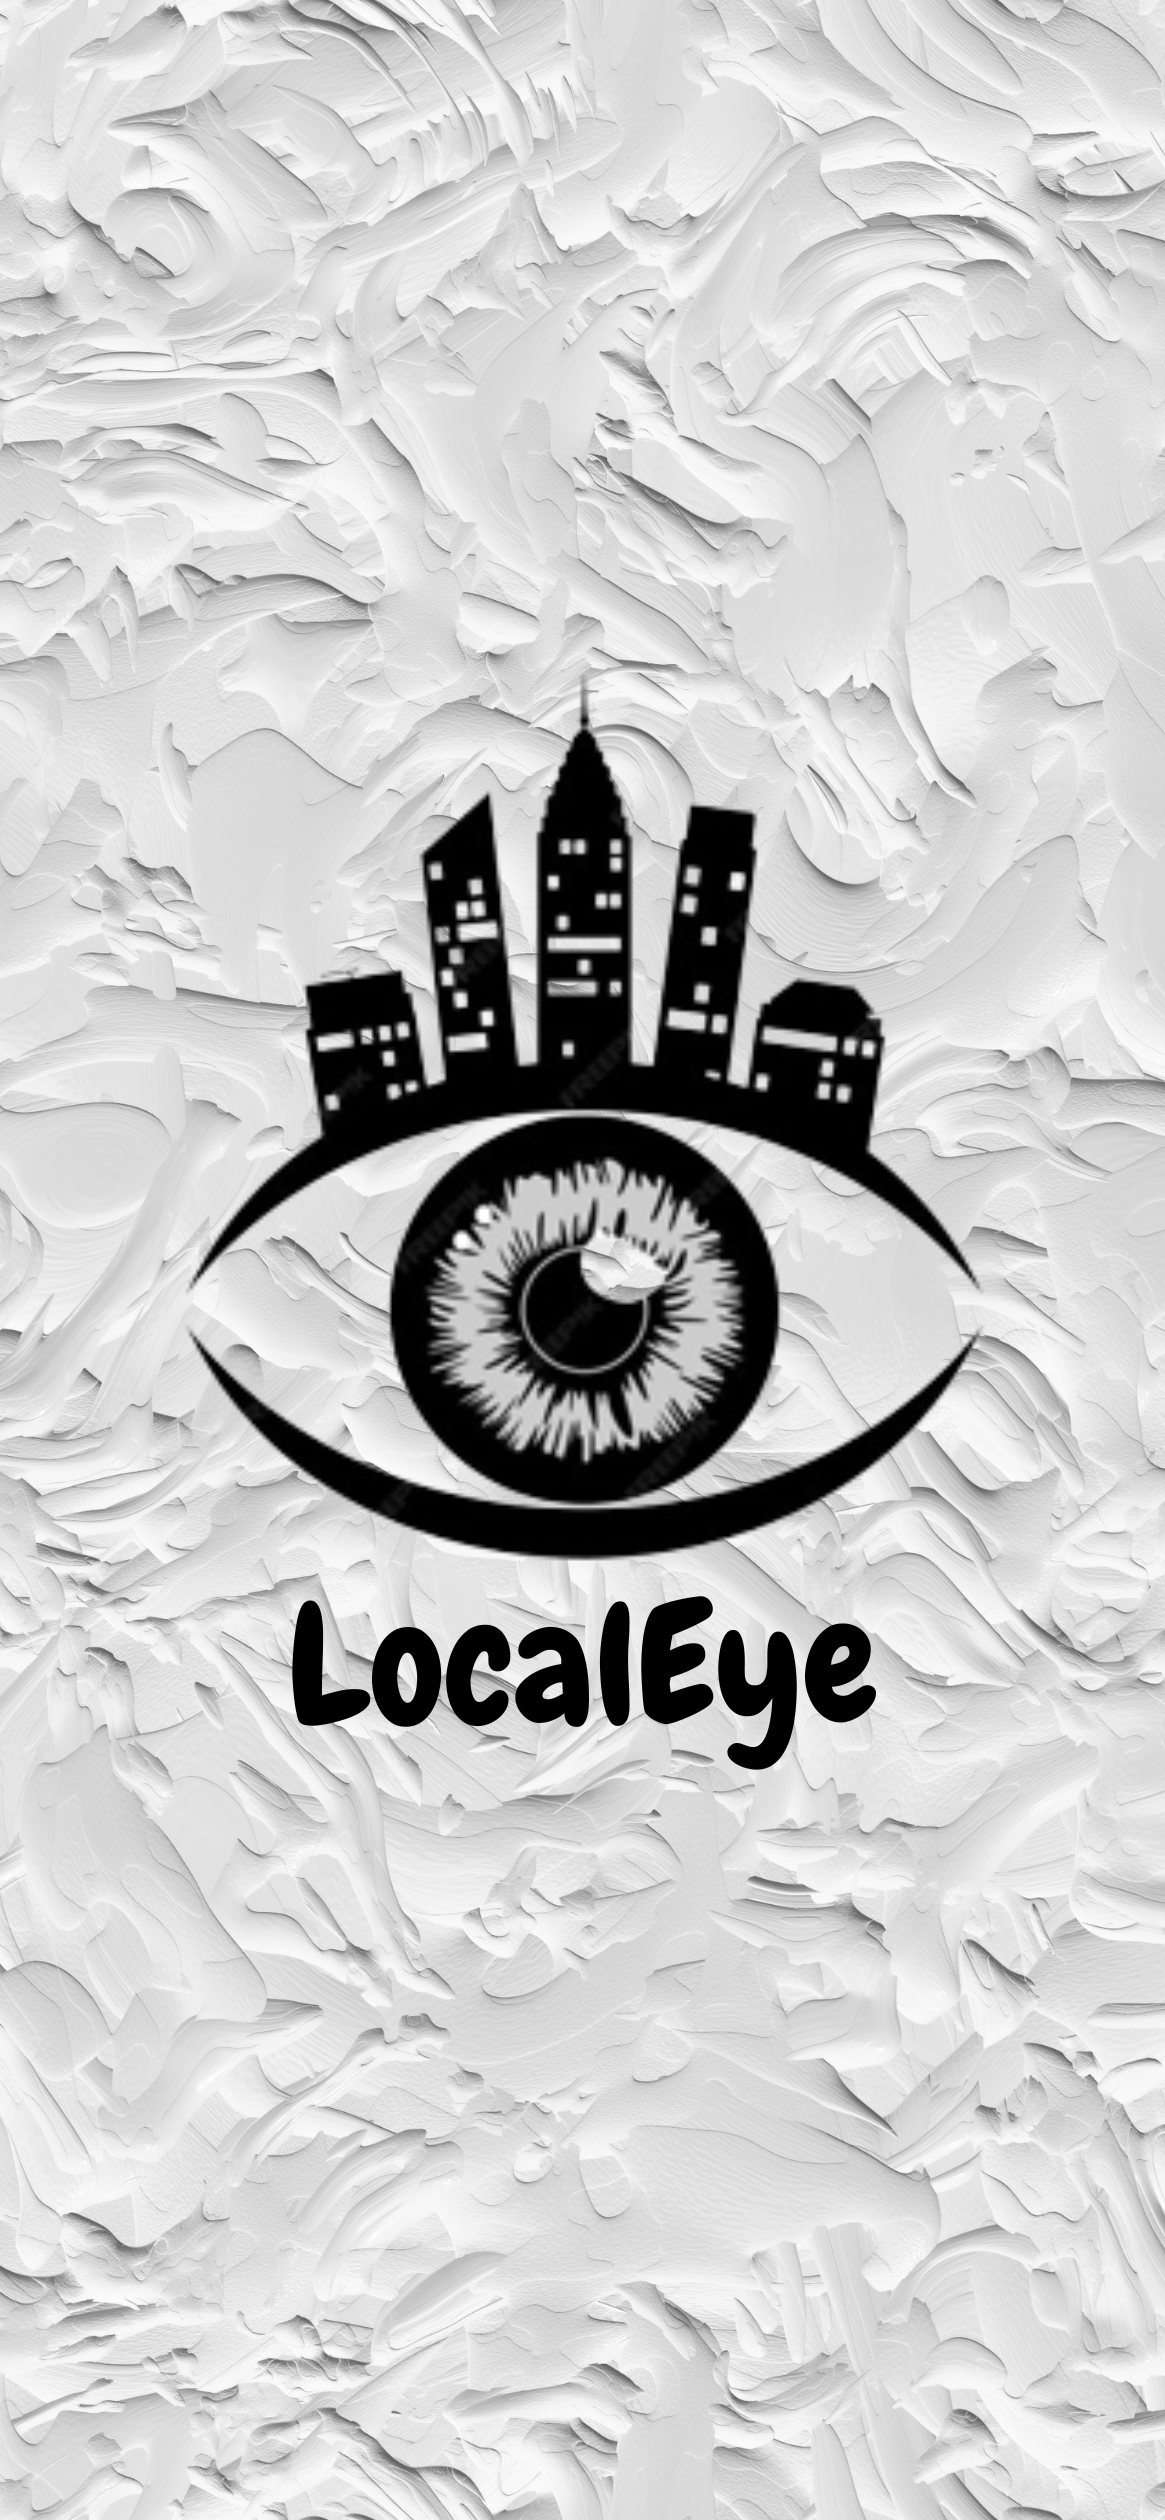
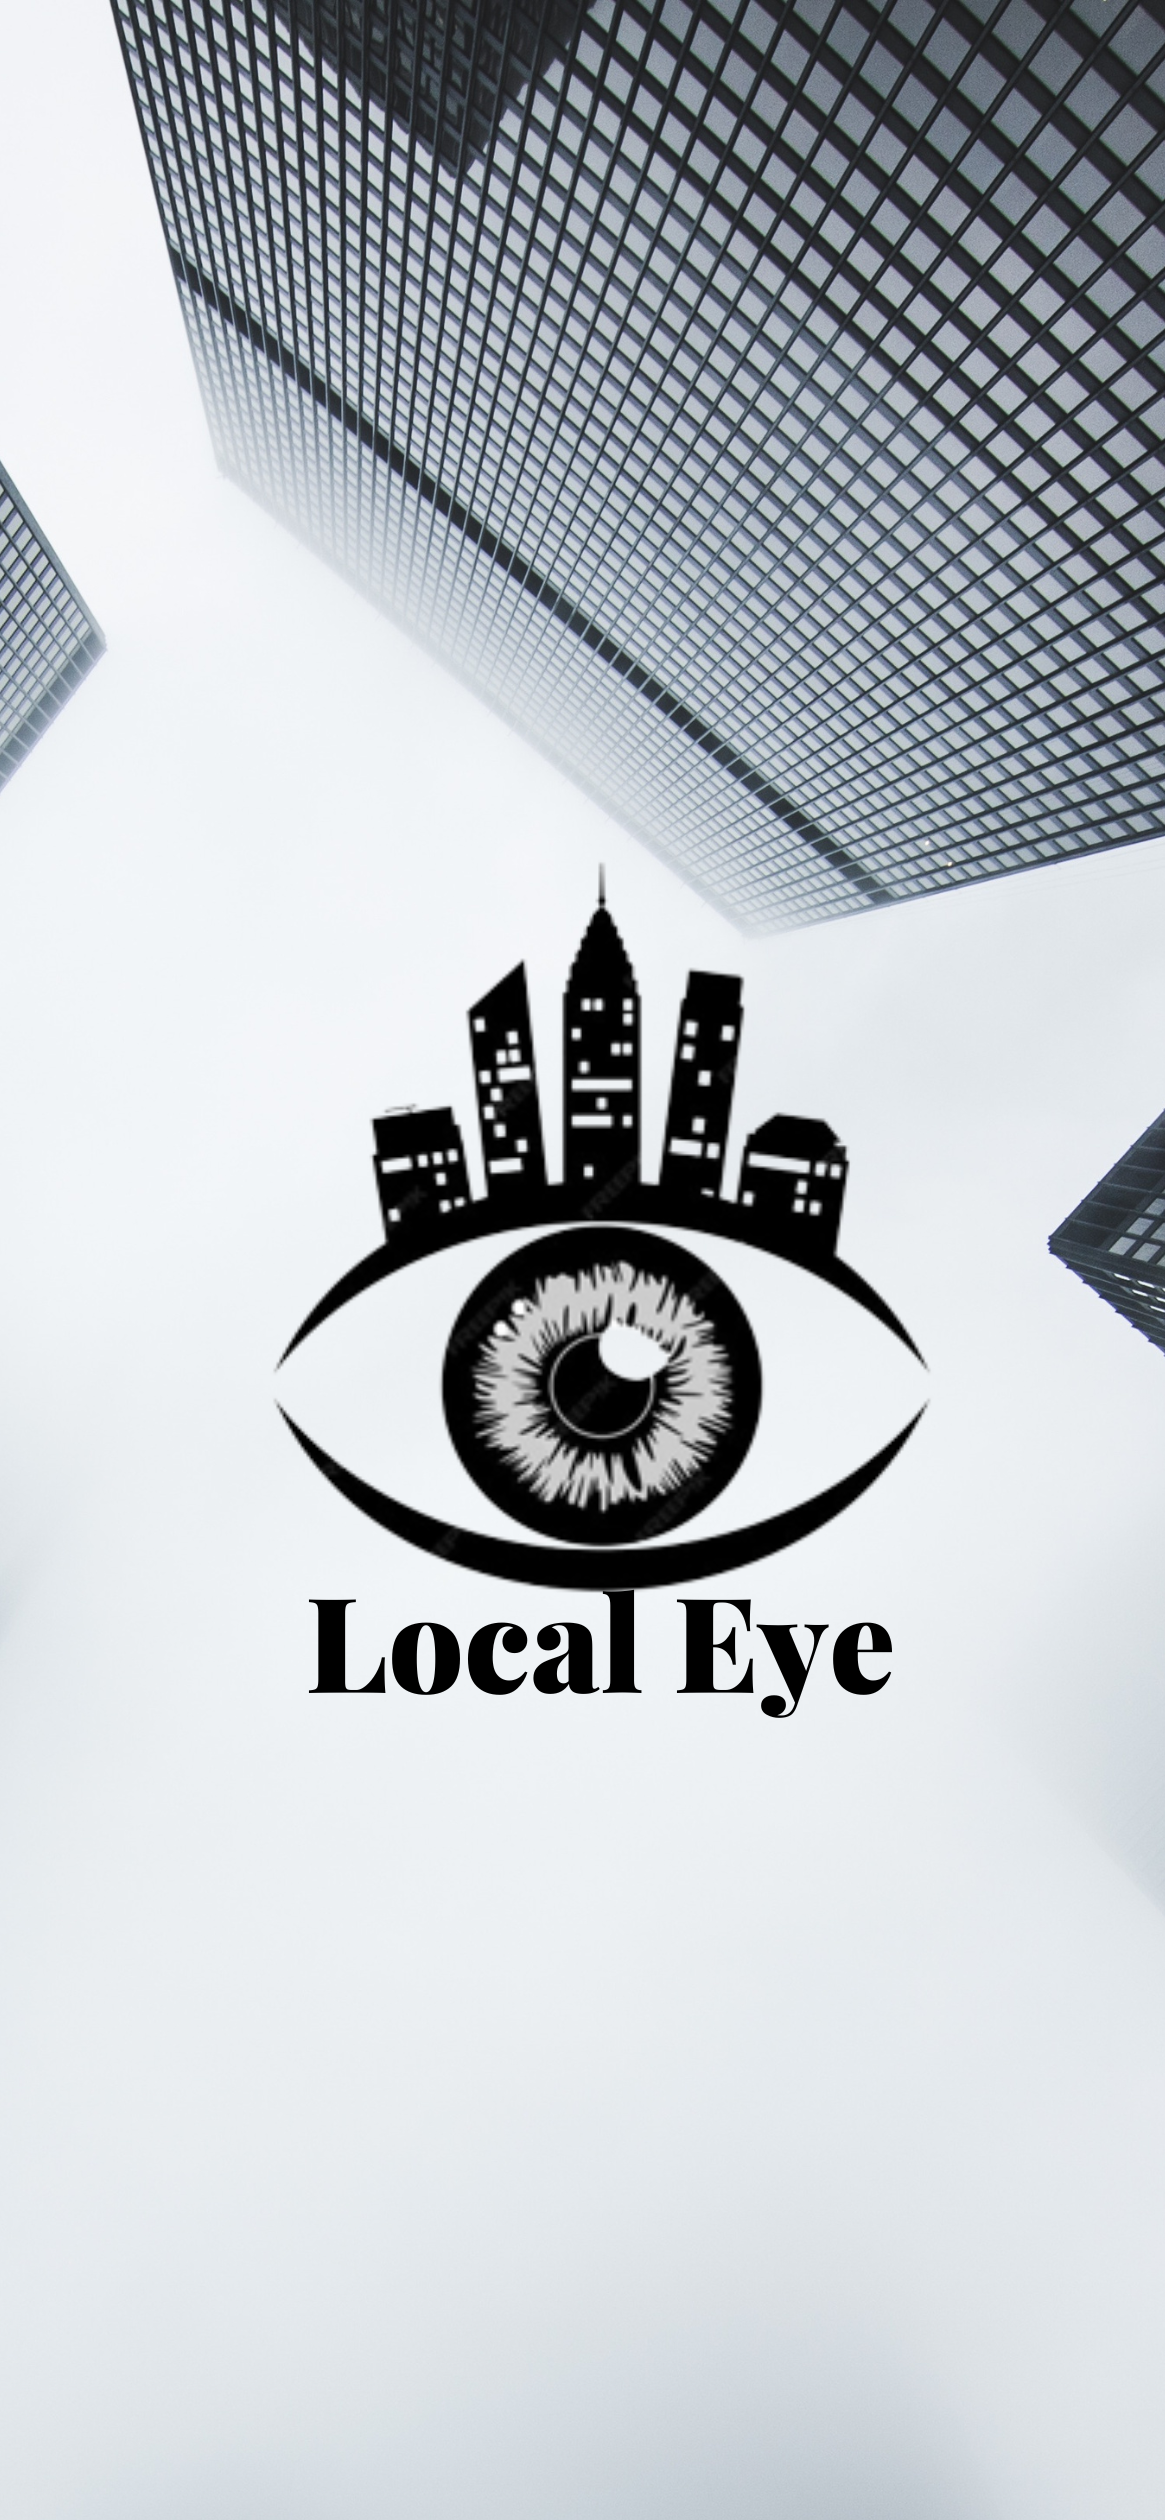
new background

diff --git a/lib/screens/category_screen.dart b/lib/screens/category_screen.dart
@@ -1,120 +1,4 @@
-// import 'package:flutter/material.dart';
-// import 'package:font_awesome_flutter/font_awesome_flutter.dart';
-// import 'welcome_screen.dart'; // Import your welcome screen file
 
-// class CategoryScreen extends StatelessWidget {
-//   const CategoryScreen({Key? key});
-
-//   @override
-//   Widget build(BuildContext context) {
-//     List<CategoryInfo> categories = [
-//       CategoryInfo(name: 'Sanitation', icon: Icons.cleaning_services),
-//       CategoryInfo(name: 'Garden Maintenance', icon: Icons.park_rounded),
-//       CategoryInfo(name: 'Lighting Maintenance', icon: FontAwesomeIcons.lightbulb),
-//       CategoryInfo(name: 'Road Maintenance', icon: Icons.settings),
-//       CategoryInfo(name: 'Environmental Sanitation', icon: Icons.eco),
-//       CategoryInfo(name: 'Safety and Security', icon: Icons.safety_check),
-//     ];
-
-//     return Scaffold(
-//       extendBodyBehindAppBar: true,
-//       appBar: AppBar(
-//         title: Text('Pick a category'),
-//         actions: [
-//           IconButton(
-//             icon: Icon(Icons.logout),
-//             onPressed: () {
-//               // Navigate to the welcome screen
-//               Navigator.pushReplacement(
-//                 context,
-//                 MaterialPageRoute(builder: (context) => WelcomeScreen()),
-//               );
-//             },
-//           ),
-//         ],
-//       ),
-//       body: Stack(
-//         children: [
-//           Image.asset(
-//             'assets/images/noeye.png',
-//             fit: BoxFit.cover,
-//             width: double.infinity,
-//             height: double.infinity,
-//           ),
-//           Column(
-//             children: [
-//               Padding(
-//                 padding: const EdgeInsets.only(top: 50.0),
-//                 child: Align(
-//                   alignment: Alignment.center,
-//                   child: Text(
-//                     'Reports',
-//                     style: TextStyle(
-//                       fontSize: 24.0,
-//                       fontWeight: FontWeight.bold,
-//                       color: Color.fromRGBO(62, 104, 156, 1),
-//                     ),
-//                   ),
-//                 ),
-//               ),
-//               Expanded(
-//                 child: GridView.builder(
-//                   gridDelegate: SliverGridDelegateWithFixedCrossAxisCount(
-//                     crossAxisCount: 2,
-//                     crossAxisSpacing: 8.0,
-//                     mainAxisSpacing: 8.0,
-//                   ),
-//                   padding: EdgeInsets.all(8.0),
-//                   itemCount: categories.length,
-//                   itemBuilder: (context, index) {
-//                     return buildCategoryItem(categories[index]);
-//                   },
-//                 ),
-//               ),
-//             ],
-//           ),
-//         ],
-//       ),
-//     );
-//   }
-
-//   Widget buildCategoryItem(CategoryInfo category) {
-//     return Container(
-//       decoration: BoxDecoration(
-//         color: Colors.white,
-//         borderRadius: BorderRadius.circular(8.0),
-//       ),
-//       child: Column(
-//         mainAxisAlignment: MainAxisAlignment.center,
-//         children: [
-//           category.icon is IconData
-//               ? Icon(
-//                   category.icon as IconData,
-//                   size: 48.0,
-//                   color: Colors.blue, // Customize the color of the icon
-//                 )
-//               : FaIcon(
-//                   category.icon as IconData,
-//                   size: 48.0,
-//                   color: Colors.blue, // Customize the color of the icon
-//                 ),
-//           SizedBox(height: 8.0),
-//           Text(
-//             category.name,
-//             style: TextStyle(fontSize: 18.0),
-//           ),
-//         ],
-//       ),
-//     );
-//   }
-// }
-
-// class CategoryInfo {
-//   final String name;
-//   final IconData icon;
-
-//   CategoryInfo({required this.name, required this.icon});
-// }
 import 'package:flutter/material.dart';
 import 'package:font_awesome_flutter/font_awesome_flutter.dart';
 import 'welcome_screen.dart'; // Import your welcome screen file
@@ -209,12 +93,12 @@ class CategoryScreen extends StatelessWidget {
               ? Icon(
                   category.icon as IconData,
                   size: 48.0,
-                  color: Colors.blue, // Customize the color of the icon
+                  color: Color.fromARGB(255, 174, 112, 64), // Customize the color of the icon
                 )
               : FaIcon(
                   category.icon as IconData,
                   size: 48.0,
-                  color: Colors.blue, // Customize the color of the icon
+                  color: Color.fromARGB(255, 193, 125, 73), // Customize the color of the icon
                 ),
           SizedBox(height: 8.0),
           Text(
